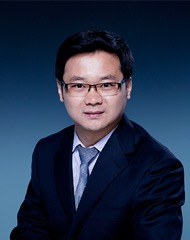
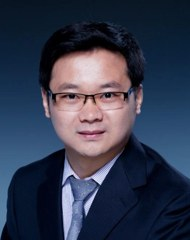
Stop publishing a tree that forgot everyone's survey answers
Google intermittently hands a runner a sign-in page instead of the survey
CSV. The fetch only checked that the file was non-empty, so those runs
rebuilt from committed data alone and the bot published it: for days the
tree flip-flopped by ~1200 lines every few hours, and answers submitted
since Jul 28 never stuck. Chuxiong Hu's update (full Professor at Tsinghua,
plus his two students) was the visible casualty.

The fetch now validates the payload's header and row count, retries five
times with backoff, and fails the run instead of building without it. A
second guard recounts people before and after: the tree only ever grows, so
any shrink stops the commit. Data here is rebuilt from the current
responses.

diff --git a/family-tree/data/tree.js b/family-tree/data/tree.js
@@ -14677,15 +14677,52 @@ window.TREE_DATA = {
      "year": 2010,
      "decade": "2010s",
      "educator": true,
-     "affiliation": "Tsinghua University, Department of Mechanical Engineering",
-     "title": "Associate Professor (tenured)",
+     "affiliation": "Tsinghua University",
+     "title": "Professor",
      "inMemoriam": false,
      "photo": "photos/chuxiong-hu.jpg",
-     "bio": null,
+     "bio": "Visiting Scholar of Prof. Tomizuka at UC Berkeley in 2018.",
      "note": null,
-     "homepage": null,
-     "provisional": true,
-     "children": []
+     "homepage": "https://me.tsinghua.edu.cn/info/1100/3355.htm",
+     "provisional": false,
+     "children": [
+      {
+       "id": "jichuan-yu",
+       "name": "Jichuan Yu",
+       "batch": "PhD Candidate",
+       "kind": "current",
+       "year": null,
+       "decade": "Current",
+       "educator": false,
+       "affiliation": null,
+       "title": null,
+       "inMemoriam": false,
+       "photo": null,
+       "bio": null,
+       "note": "Tsinghua University",
+       "homepage": "https://jichuan-yu.github.io/",
+       "provisional": false,
+       "children": []
+      },
+      {
+       "id": "zhao-jin",
+       "name": "Zhao Jin",
+       "batch": "PhD Candidate",
+       "kind": "current",
+       "year": null,
+       "decade": "Current",
+       "educator": false,
+       "affiliation": null,
+       "title": null,
+       "inMemoriam": false,
+       "photo": null,
+       "bio": null,
+       "note": "Tsinghua University",
+       "homepage": null,
+       "provisional": false,
+       "children": []
+      }
+     ]
     },
     {
      "id": "shreekant-gayaka",
